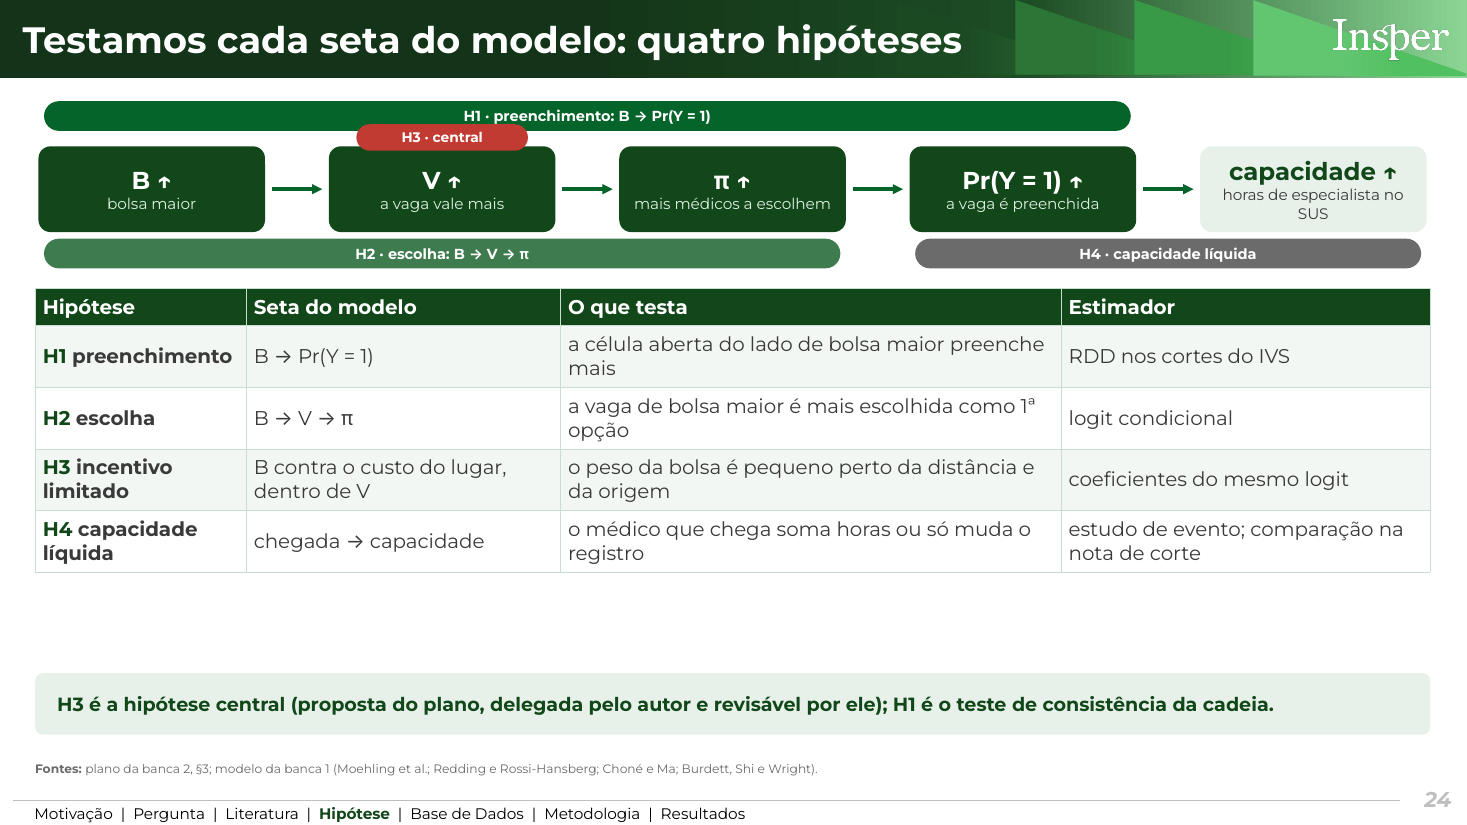
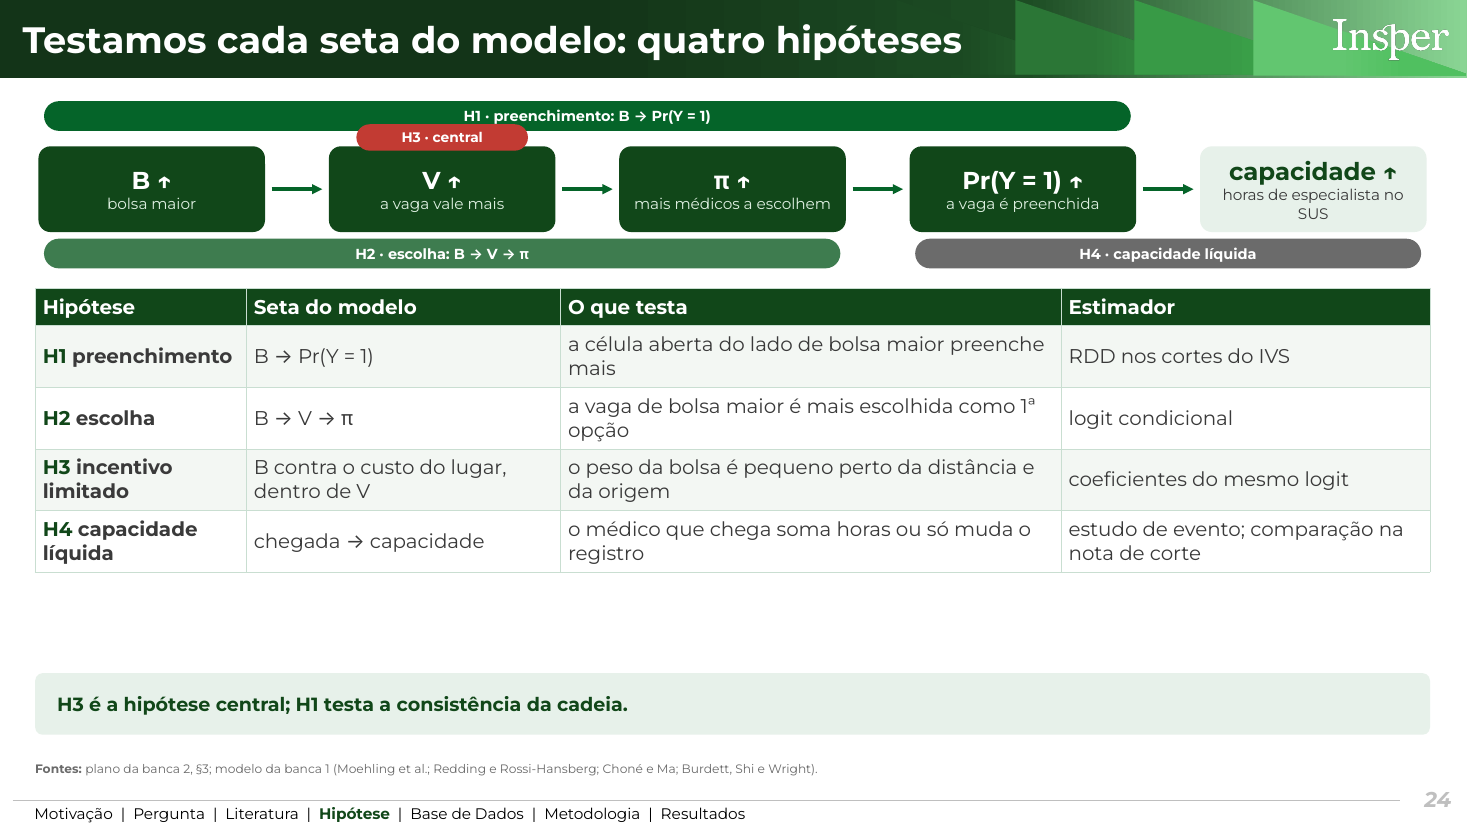
Banca 2: cautelas da robustez (H3 pós-resultado) e das hipóteses sem linguagem de processo
Claude-Session: https://claude.ai/code/session_011jPV4G6BtUxSX71P3Fzkr7

Changed region(s): [[0.184, 0.8485, 0.8589, 0.8788]]

diff --git a/docs/07_apresentacoes/banca2/02_conteudo_slides.md b/docs/07_apresentacoes/banca2/02_conteudo_slides.md
@@ -91,7 +91,7 @@ teste confere este quadro contra o manifesto do deck.
 | 34 | novo | H3: no modelo de escolha, a UF de origem pesa mais que a bolsa | empírica: resultados |
 | 35 | novo | H4: o médico soma horas, mas metade já estava no município | empírica: resultados |
 | 36 | novo | Na cadeia, só a escolha e o registro do médico se movem | empírica: resultados |
-| 37 | novo | Robustez: as leituras resistem, com duas ressalvas declaradas | empírica: robustez |
+| 37 | novo | Robustez: as leituras resistem, com ressalvas declaradas | empírica: robustez |
 | 38 | novo | Discussão: o que não afirmamos e o que vem depois | empírica: discussão |
 | 39 | grupo 30 | Q&A | encerramento |
 | 40 | grupo 31 | Apêndice (divisor) | apêndice |
@@ -240,7 +240,7 @@ foi proposto; o que entrou em cada estimador está nos slides de metodologia.
 | **H3** incentivo limitado | B contra o custo do lugar, dentro de V | o peso da bolsa é pequeno perto da distância e da origem | coeficientes do mesmo logit |
 | **H4** capacidade líquida | chegada → capacidade | o médico que chega soma horas ou só muda o registro | estudo de evento; comparação na nota de corte |
 
-> **H3 é a hipótese central (proposta do plano, delegada pelo autor e revisável por ele); H1 é o teste de consistência da cadeia.**
+> **H3 é a hipótese central; H1 testa a consistência da cadeia.**
 
 **Fontes:** plano da banca 2, §3; modelo da banca 1 (Moehling et al.; Redding e Rossi-Hansberg; Choné e Ma; Burdett, Shi e Wright).
 
@@ -555,7 +555,7 @@ foi proposto; o que entrou em cada estimador está nos slides de metodologia.
 
 # Robustez e discussão
 
-## Robustez: as leituras resistem, com duas ressalvas declaradas
+## Robustez: as leituras resistem, com ressalvas declaradas
 
 `Robustez · Síntese`
 
@@ -568,7 +568,7 @@ foi proposto; o que entrou em cada estimador está nos slides de metodologia.
 | H3 | D_UF positivo nas seis especificações, com q de BKY < 0,05 | pós-resultado: o M1 já era conhecido |
 | H4 | as horas totais aguentam violações de tendência até 1,30 vez a maior do pré | na nota de corte, o IC das horas totais contém zero |
 
-> **As ressalvas estão na tela; nenhuma especificação foi escolhida depois de ver o resultado.**
+> **Especificações fixadas em protocolo antes de estimar; a H3 é pós-resultado e está rotulada assim.**
 
 **Fontes:** `output/rdd_bolsa/N_estimativas.csv` (doc 49); `P1_estimativas.csv` (doc 57a); `E8_resumo.json` (E9); `P1h_magnitudes.csv` (doc 57i); `H_estimativas.csv` e `CA_estimativas.csv` (doc 57h). Teste a teste, com os números: apêndice.
 
